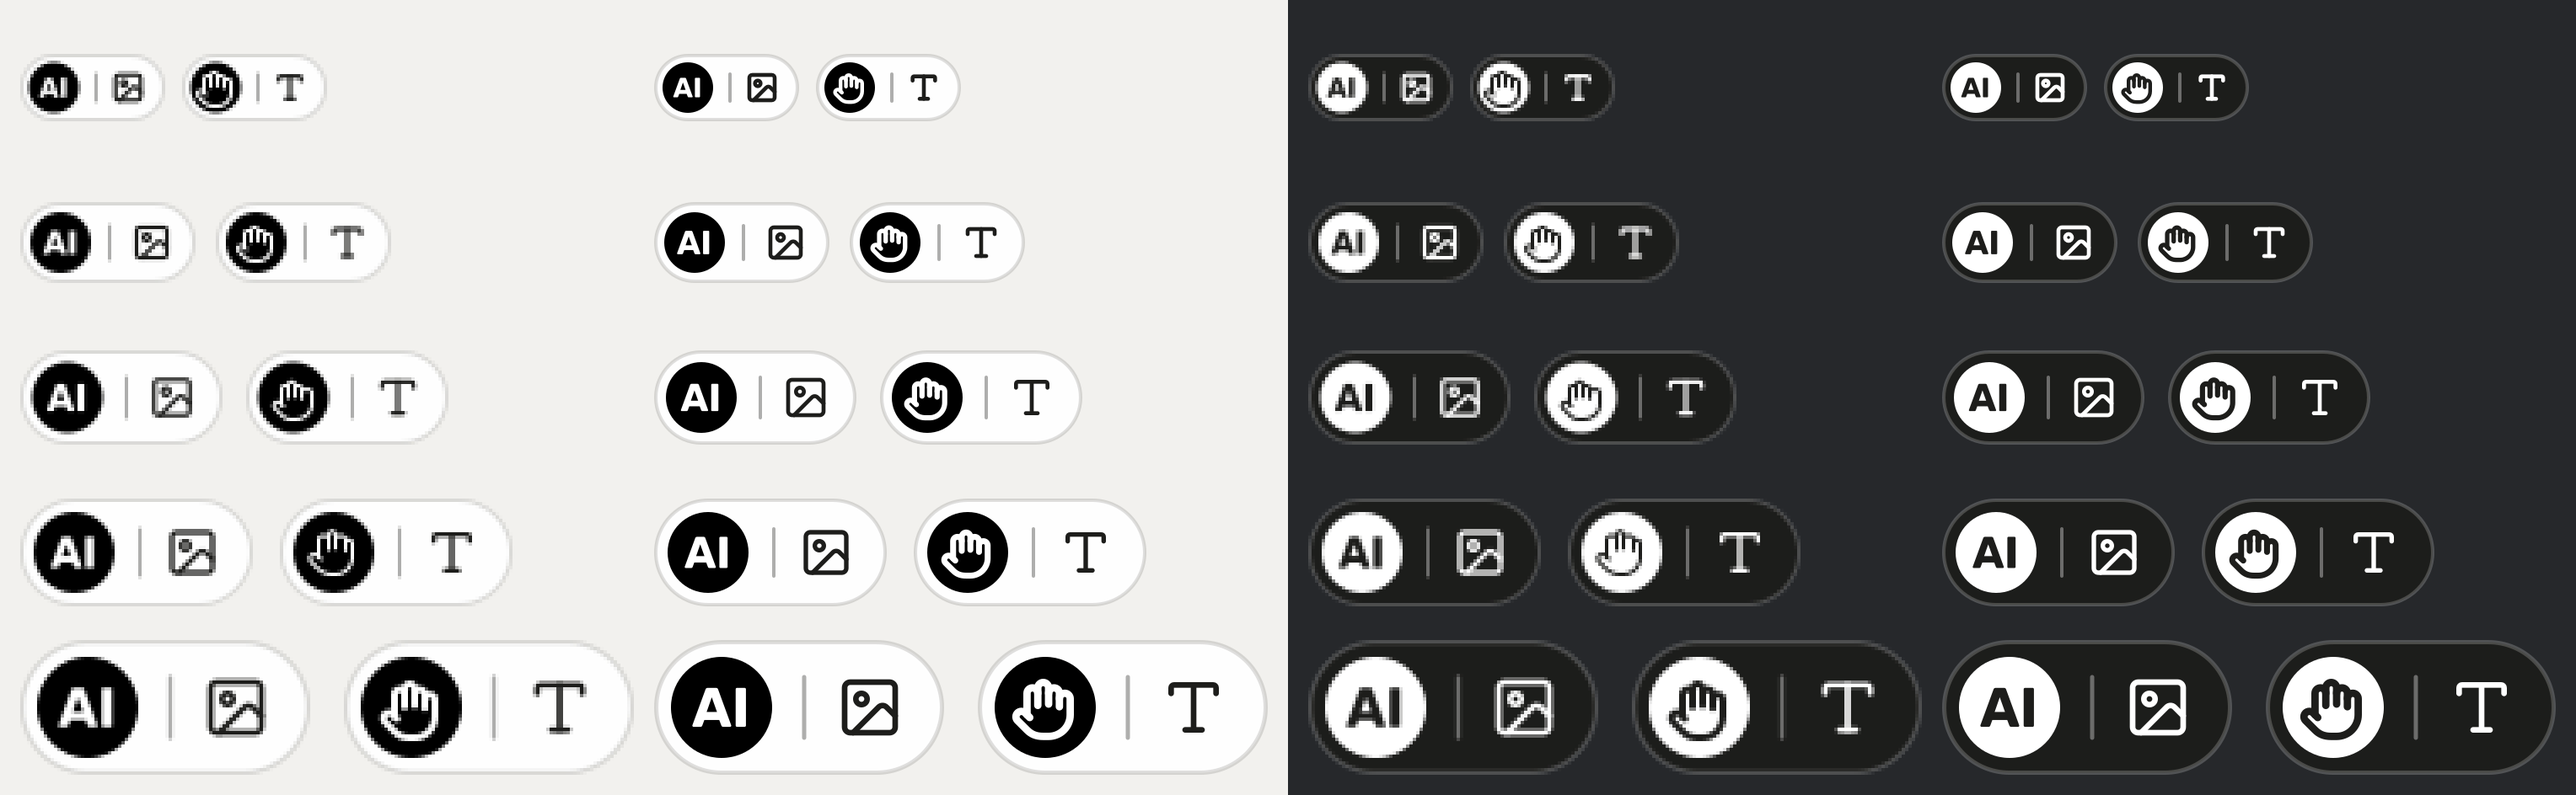
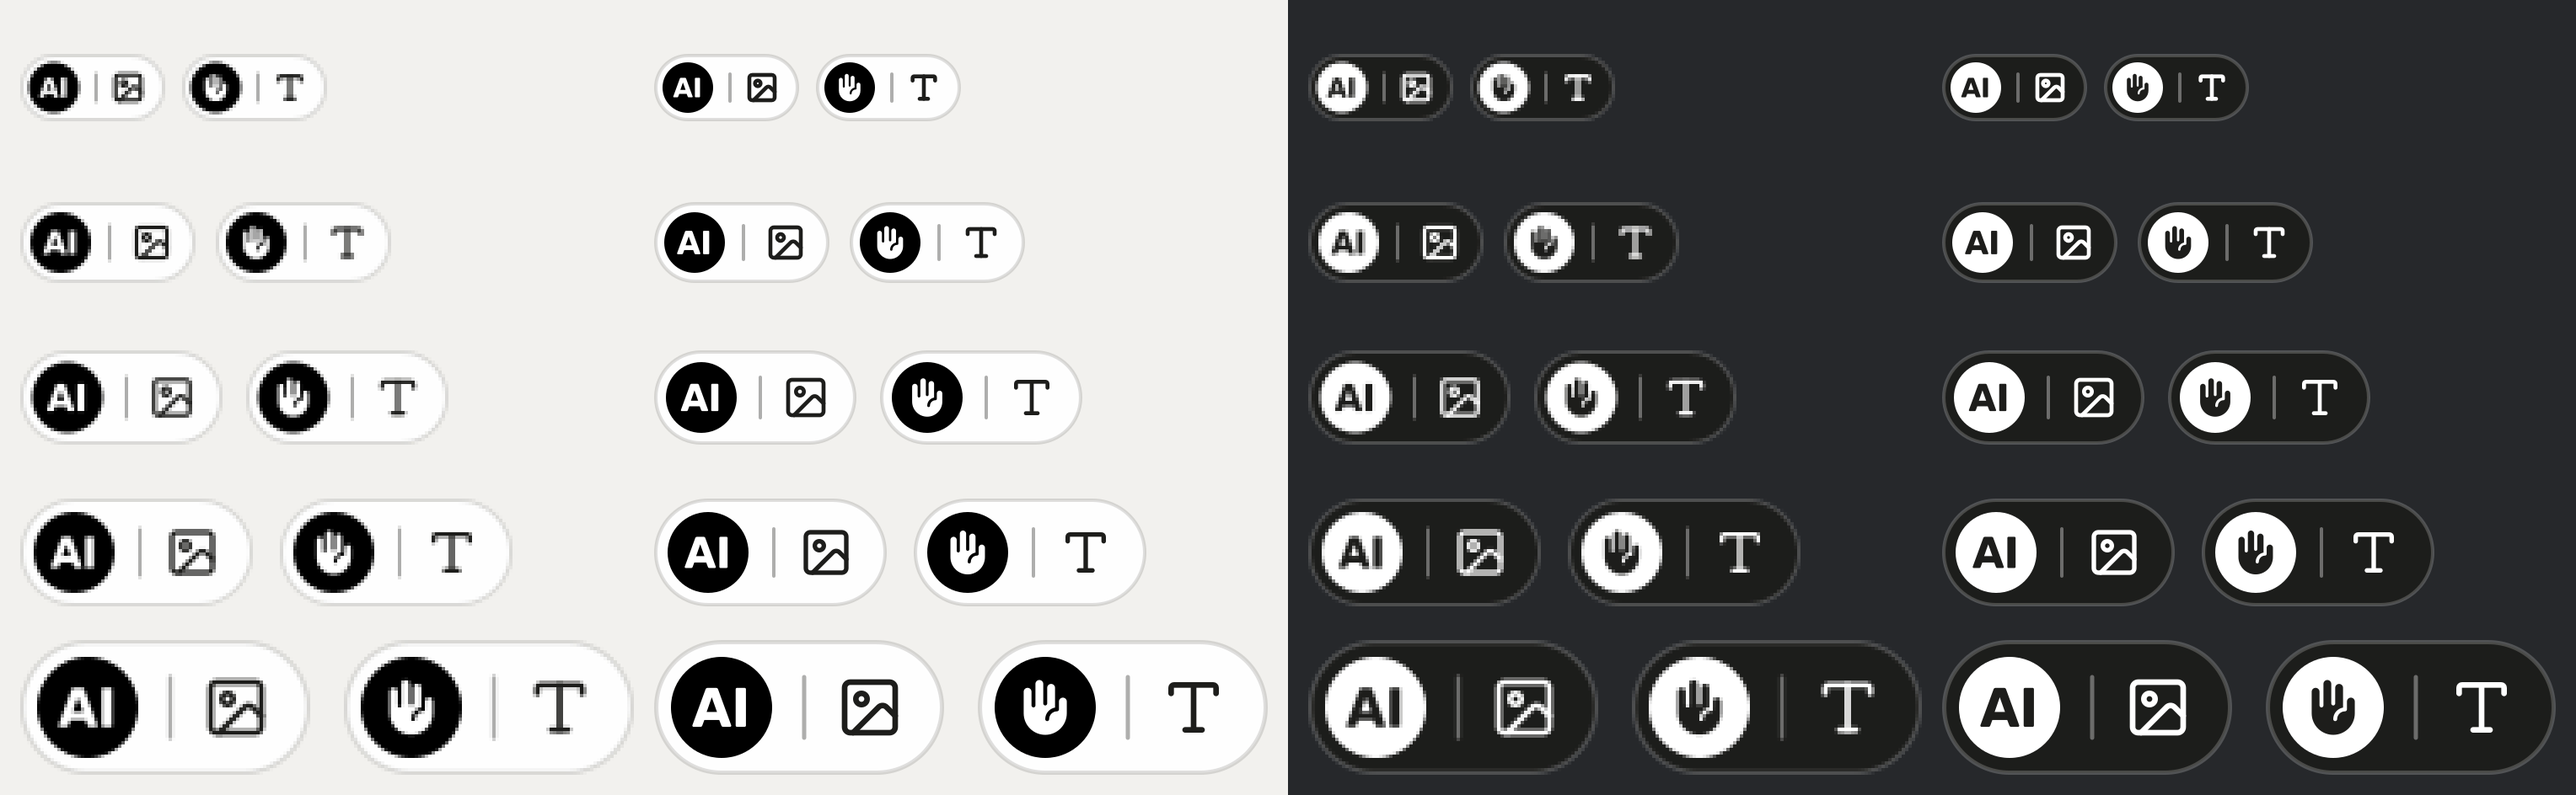
Human-made mark: a filled hand instead of the outline
The hand in the disc is now Phosphor's "hand-palm" (fill weight, MIT) at 0.62 of the disc in SVG, PNG and HTML. A solid glyph matches the weight of the bold "AI" letters and keeps its silhouette at small sizes, so the pixel-grid hinting of the Lucide outline hand is removed, along with the internal density option it needed. Phosphor's MIT notice ships in assets/icons/LICENSE.txt and both NOTICE files; README, CHANGELOG and docs images are updated.

diff --git a/README.md b/README.md
@@ -118,7 +118,7 @@ $ ai-labels render --format html --kind generated --media text
 - In user testing for the EU icons, labels with text were noticed and understood better. When the label is a legal duty, prefer the full form, or keep the minimal one and say the same thing in words in the caption.
 - Without text, "generated" and "modified" look the same. Only the alt text tells them apart.
 
-The minimal form goes down to 20 px; labels with text stop at 24 px, because smaller type is unreadable. The hand takes about the same share of its disc at every size, close to the "AI" letters. Below 44 px, at 1x, its lines are snapped to the pixel grid like a hinted font, so the fingers stay apart. It has two costs. Up to 34 px the lines are 1 px wide, so the hand looks a little lighter than the "AI". Below 25 px it is a little larger, because 12 px is the smallest hand whose fingers stay apart. A PNG at `--scale 2` or more is hinted for its own pixels, so it gets the full-weight hand from 22 px up (at `--scale 3`, at every size), and HTML labels draw it scaled.
+The minimal form goes down to 20 px; labels with text stop at 24 px, because smaller type is unreadable. The hand is a filled glyph at 0.62 of its disc at every size, in SVG, PNG and HTML alike. Being solid, it matches the weight of the bold "AI" letters, and at the smallest sizes it still reads as a raised hand by its outline.
 
 ![Minimal AI and human-made labels at 20, 24, 28, 32 and 40 px, at actual size and enlarged four times, in a light and a dark theme](docs/small.png)
 
@@ -152,7 +152,8 @@ The short version is in the [Why](#why) section. The rules behind `decide`, with
 ## Credits and licences
 
 - **EU icons:** European Commission, [EU icons for labelling AI-generated content](https://digital-strategy.ec.europa.eu/en/policies/eu-icons-labelling-ai-generated-content). Free to use without attribution. Using them does not mean you signed the Code of Practice. The human-made mark (a hand in the same disc) is this project's own design, not an EU icon.
-- **Content-type icons and the hand:** [Lucide](https://lucide.dev), ISC licence; the music and text icons are derived from Feather, MIT licence. The full notices ship in the skill folder (`assets/icons/LICENSE.txt`).
+- **Content-type icons:** [Lucide](https://lucide.dev), ISC licence; the music and text icons are derived from Feather, MIT licence.
+- **The hand in the human-made mark:** [Phosphor](https://phosphoricons.com) "hand-palm", fill weight, MIT licence. The full notices for both sets ship in the skill folder (`assets/icons/LICENSE.txt`).
 - **Font:** [Inter](https://rsms.me/inter/) by Rasmus Andersson, SIL Open Font License 1.1.
 
 The code is MIT. Details for the third-party files are in [NOTICE.md](NOTICE.md).

diff --git a/CHANGELOG.md b/CHANGELOG.md
@@ -13,8 +13,8 @@ First public version: images and labels for web pages.
 - Languages: all 24 EU language codes. English and Polish have built-in wording; the others take `--text` (and `--human-text`) and tag the SVG and HTML with that language.
 - Input checks: stray words (an unquoted `--text`) and fractional heights are refused.
 - `--minimal`: no text, only the author mark (EU "AI" disc, or a hand in the same disc) and the content-type icons, down to 20 px. Labels with text are at least 24 px tall.
-- The hand in the human-made mark takes 0.64 of its disc at every size, in SVG, PNG and HTML alike. Below 44 px at 1x it is hinted to the pixel grid so the fingers stay apart; PNGs at `--scale 2` or more are hinted for their own pixel density.
+- The hand in the human-made mark is a filled glyph (Phosphor "hand-palm", MIT) at 0.62 of its disc at every size, in SVG, PNG and HTML alike, so it matches the weight of the bold "AI" letters.
 - `eu`: the official EU icons, unchanged. `icons`: the content-type icons.
 - MCP server (`decide_label`, `render_label`, `stamp_image`, `eu_icon`) with strict arguments and tool annotations, Claude Code plugin and skill.
 - The CLI installs as `ai-labels`, the name the help and `decide` print, and as `ai-content-labels` for `npx`.
-- The skill folder carries its own third-party notices (`NOTICE.md`, the Lucide ISC and Feather MIT texts in `assets/icons/LICENSE.txt`), so a plain copy of it keeps them.
+- The skill folder carries its own third-party notices (`NOTICE.md`, the Lucide ISC, Feather MIT and Phosphor MIT texts in `assets/icons/LICENSE.txt`), so a plain copy of it keeps them.

diff --git a/NOTICE.md b/NOTICE.md
@@ -58,6 +58,34 @@ OUT OF OR IN CONNECTION WITH THE SOFTWARE OR THE USE OR OTHER DEALINGS IN THE
 SOFTWARE.
 ```
 
+## Phosphor
+
+File: `skills/ai-content-labels/assets/icons/hand-mark.svg`, the "hand-palm" icon (fill weight) from Phosphor Icons 2.1.1 (https://phosphoricons.com), used for the hand in the human-made mark.
+
+```
+MIT License
+
+Copyright (c) 2023 Phosphor Icons
+
+Permission is hereby granted, free of charge, to any person obtaining a copy
+of this software and associated documentation files (the "Software"), to deal
+in the Software without restriction, including without limitation the rights
+to use, copy, modify, merge, publish, distribute, sublicense, and/or sell
+copies of the Software, and to permit persons to whom the Software is
+furnished to do so, subject to the following conditions:
+
+The above copyright notice and this permission notice shall be included in all
+copies or substantial portions of the Software.
+
+THE SOFTWARE IS PROVIDED "AS IS", WITHOUT WARRANTY OF ANY KIND, EXPRESS OR
+IMPLIED, INCLUDING BUT NOT LIMITED TO THE WARRANTIES OF MERCHANTABILITY,
+FITNESS FOR A PARTICULAR PURPOSE AND NONINFRINGEMENT. IN NO EVENT SHALL THE
+AUTHORS OR COPYRIGHT HOLDERS BE LIABLE FOR ANY CLAIM, DAMAGES OR OTHER
+LIABILITY, WHETHER IN AN ACTION OF CONTRACT, TORT OR OTHERWISE, ARISING FROM,
+OUT OF OR IN CONNECTION WITH THE SOFTWARE OR THE USE OR OTHER DEALINGS IN THE
+SOFTWARE.
+```
+
 ## Inter
 
 File: `skills/ai-content-labels/assets/font/inter-semibold.json`, glyph outlines and metrics extracted from Inter 4.1 SemiBold by `tools/build-assets.mjs`.

diff --git a/skills/ai-content-labels/NOTICE.md b/skills/ai-content-labels/NOTICE.md
@@ -4,6 +4,7 @@ The ai-content-labels code is MIT-licensed. This folder also contains:
 
 - **EU icons** (`assets/eu/`): European Commission, <https://digital-strategy.ec.europa.eu/en/policies/eu-icons-labelling-ai-generated-content>. The files are the Commission's originals, unchanged. In the Commission's words they "are made publicly available for everyone to use freely, without the need for attribution to the Commission or the AI Office." This project is not affiliated with or endorsed by the European Commission.
 - **Lucide icons** (`assets/icons/`): ISC License, with the `music` and `type` icons also under the MIT License (Feather). The full notices are in `assets/icons/LICENSE.txt`.
+- **Phosphor hand** (`assets/icons/hand-mark.svg`): the "hand-palm" icon, fill weight, from Phosphor Icons, MIT License. The full notice is in `assets/icons/LICENSE.txt`.
 - **Inter** (`assets/font/inter-semibold.json`): glyph outlines from Inter 4.1 SemiBold by Rasmus Andersson and the Inter Project Authors, SIL Open Font License 1.1. The full licence is in `assets/font/OFL.txt`.
 
 Copy the whole folder, so these notices travel with the files.
